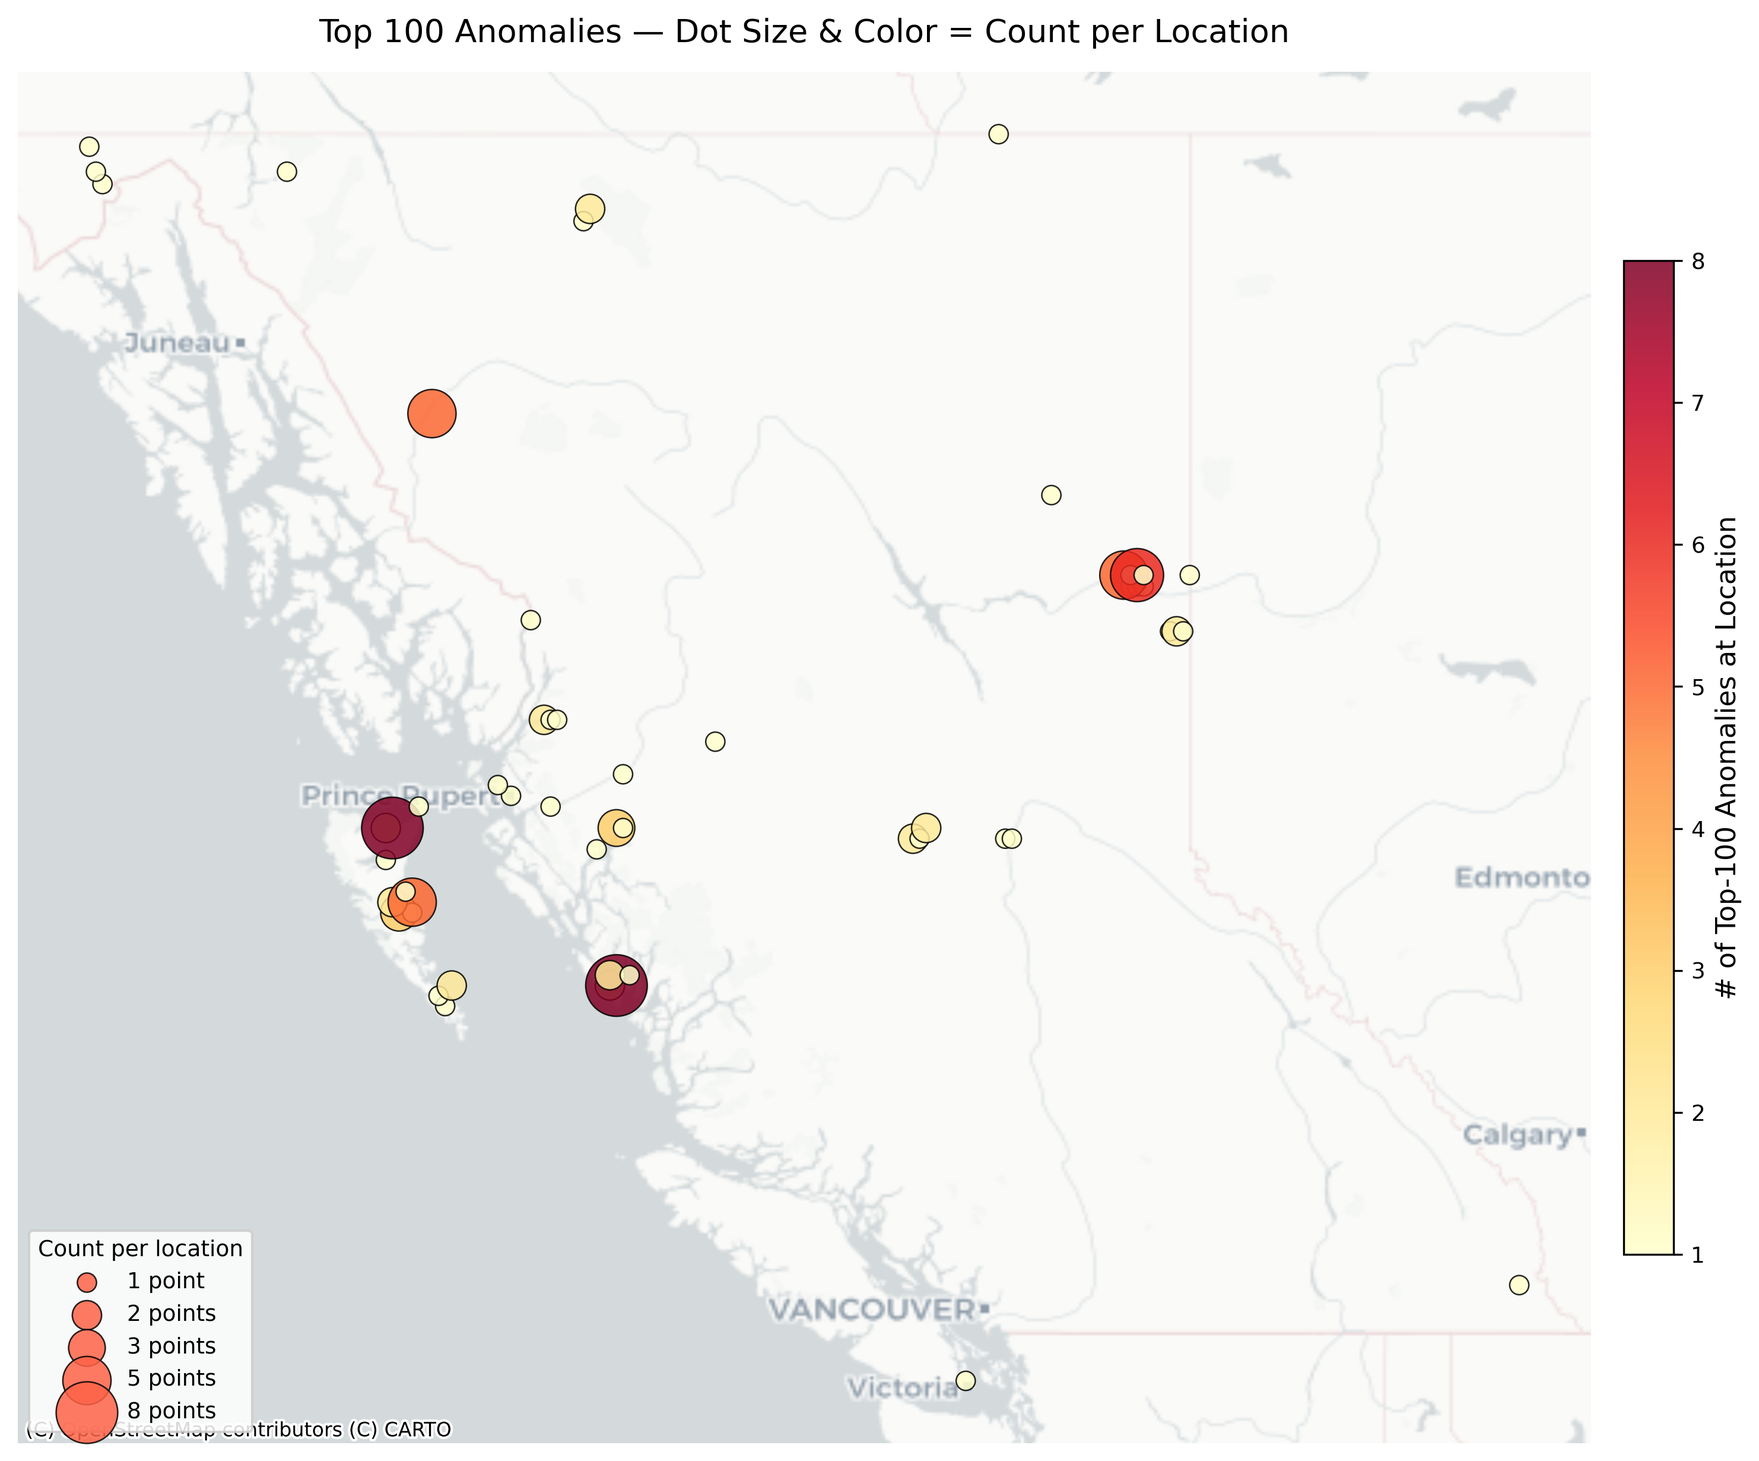
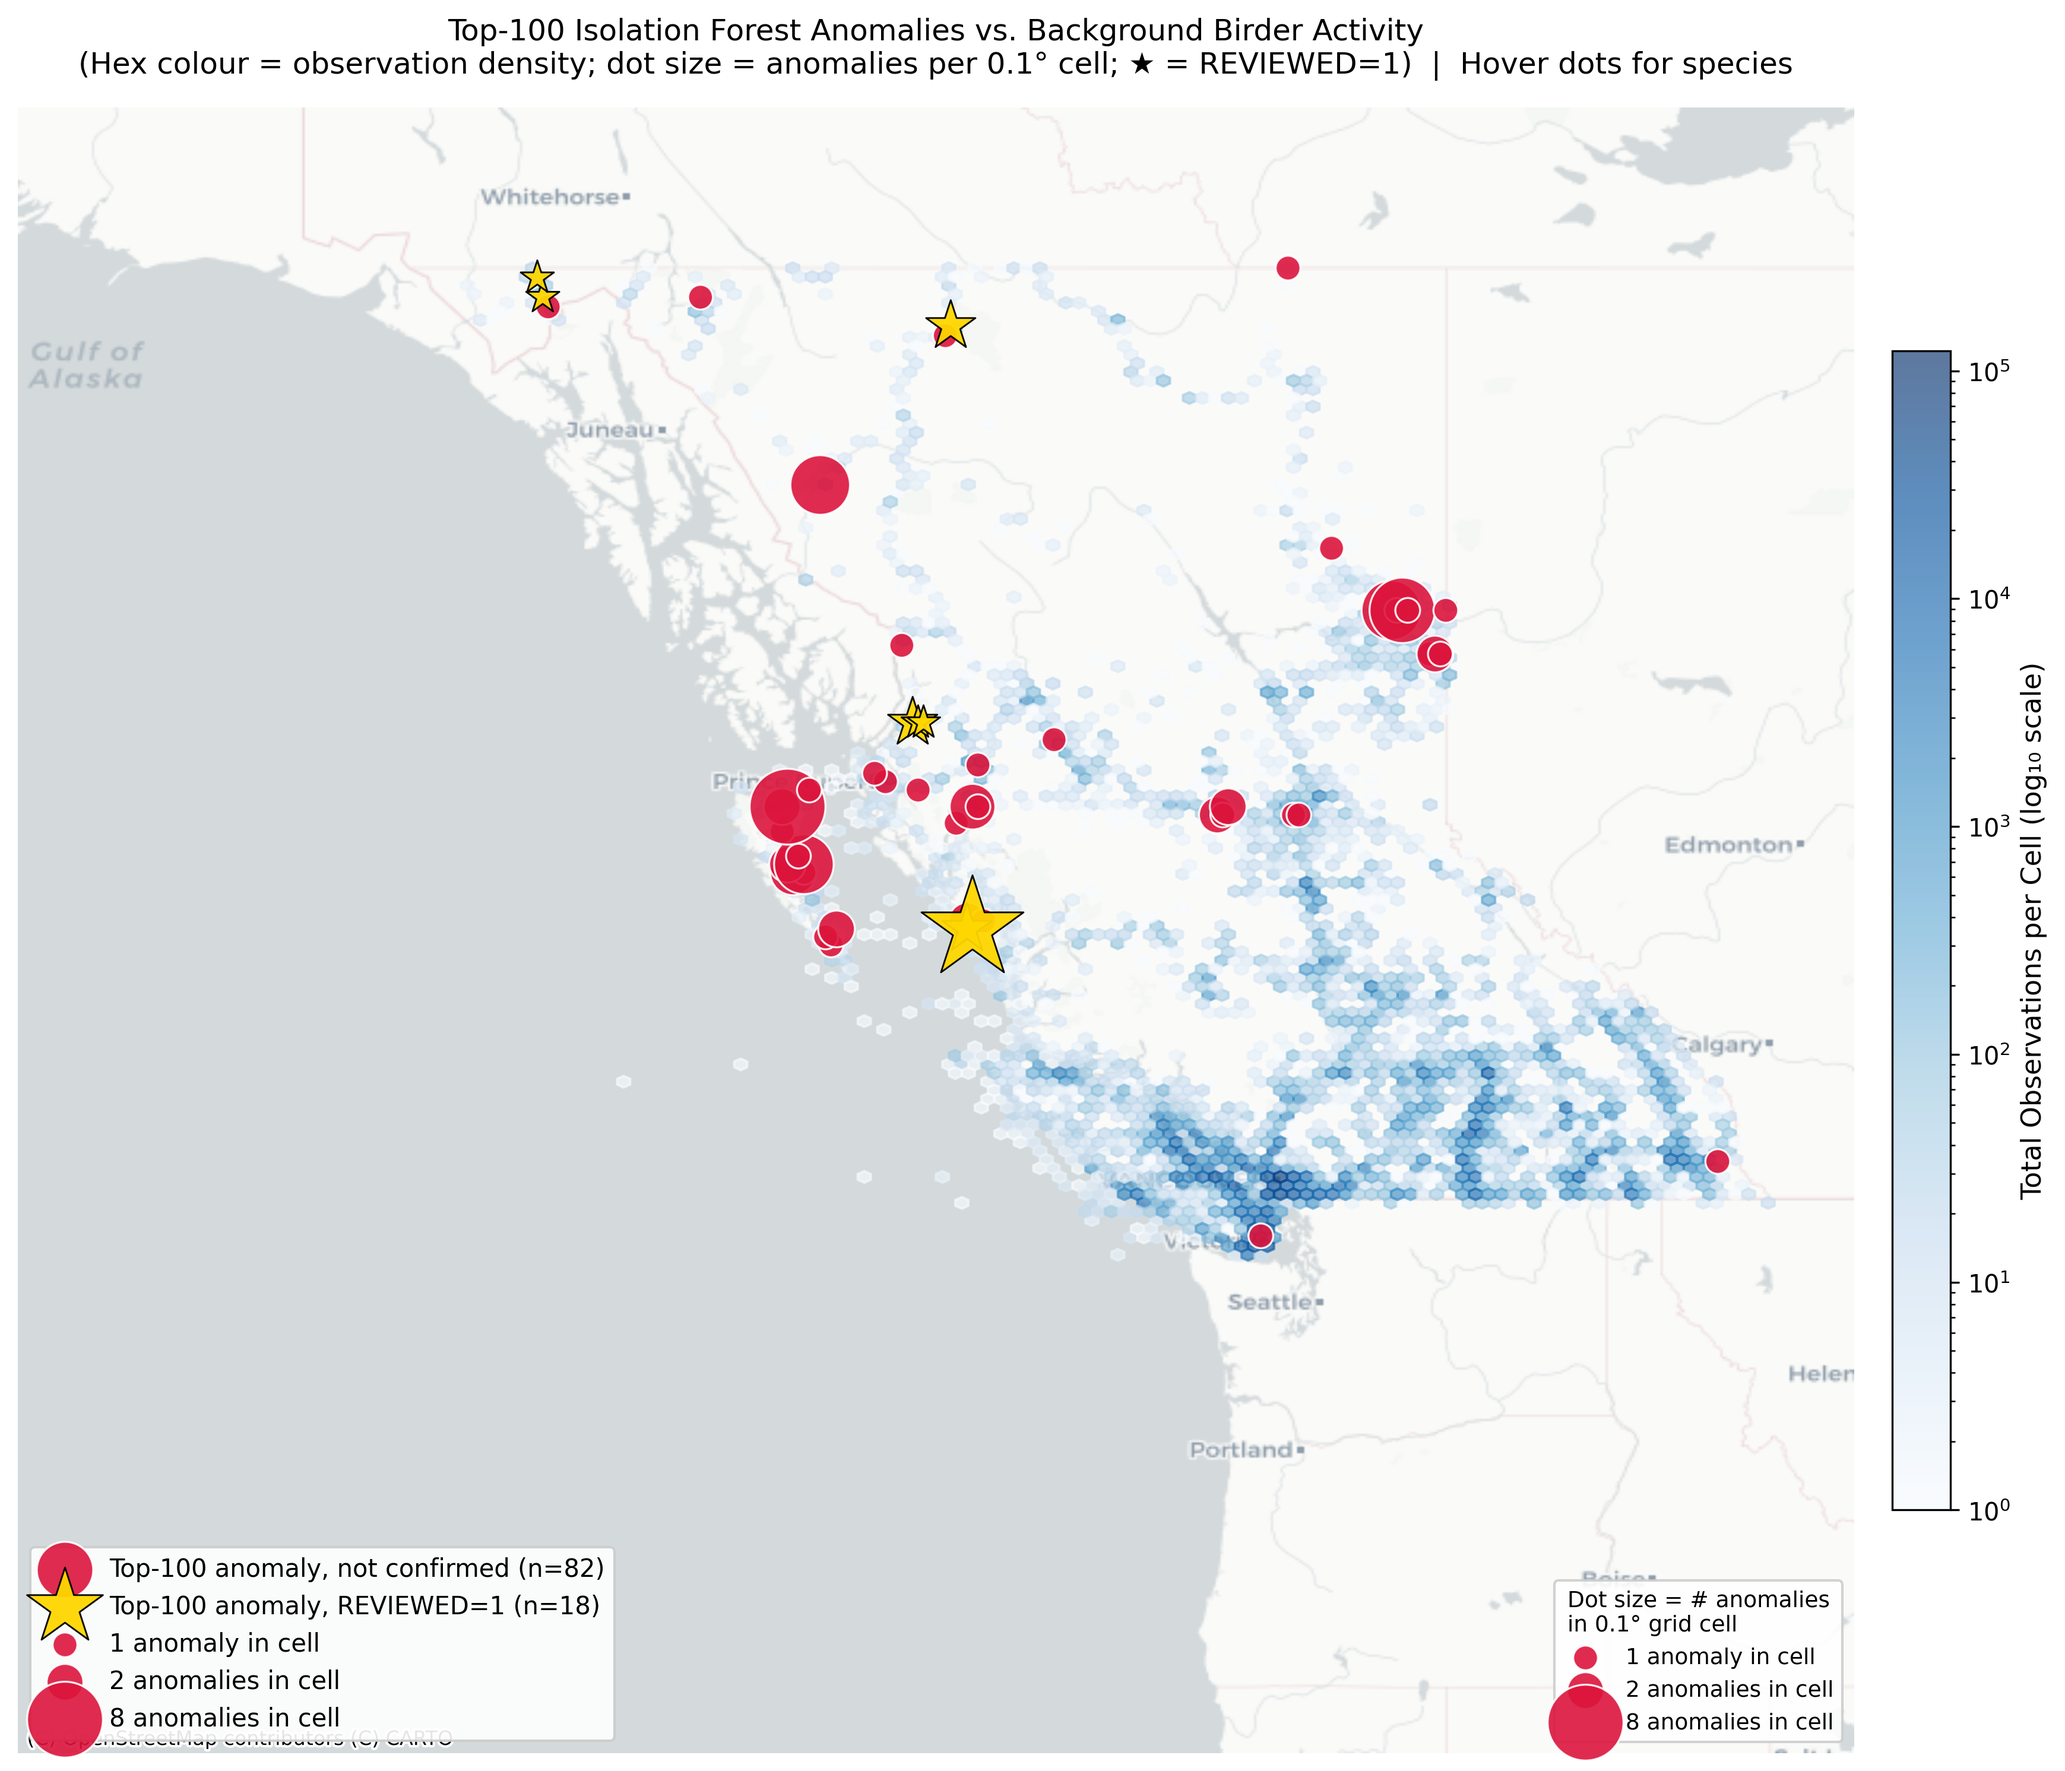
Add files via upload
Maps showing observation density by location created; overlays for model anomaly predictions & overlays for actual-expected anomaly by area

diff --git a/outputs/figures/MapOverlay.py b/outputs/figures/MapOverlay.py
@@ -1,81 +1,159 @@
 import pandas as pd
-import geopandas as gpd
 import matplotlib.pyplot as plt
-import matplotlib.patches as mpatches
 import contextily as cx
-import numpy as np
+from pyproj import Transformer
+import mplcursors
 
-# Load top anomalies from CSV (already pre-ranked; take top 100 by anomaly_rank)
+# ── Build TAXON CONCEPT ID → species name lookup from raw eBird file ──────────
+# Read only the 3 needed columns in chunks to avoid loading the 11 GB file fully.
+RAW_FILE = "ebd_CA-BC_201601_202601_smp_relFeb-2026.txt"
+CHUNK_SIZE = 200_000
+
+print("Building species name lookup from raw eBird file (chunked)...")
+taxon_lookup = {}   # { "avibase-XXXX": ("Common Name", "Scientific Name") }
+for chunk in pd.read_csv(
+    RAW_FILE,
+    sep="\t",
+    usecols=["TAXON CONCEPT ID", "COMMON NAME", "SCIENTIFIC NAME"],
+    dtype=str,
+    chunksize=CHUNK_SIZE,
+    low_memory=False,
+):
+    # Only keep rows whose taxon ID we haven't seen yet
+    new_rows = chunk[~chunk["TAXON CONCEPT ID"].isin(taxon_lookup)]
+    for _, row in new_rows.drop_duplicates("TAXON CONCEPT ID").iterrows():
+        taxon_lookup[row["TAXON CONCEPT ID"]] = (
+            row["COMMON NAME"], row["SCIENTIFIC NAME"]
+        )
+print(f"  {len(taxon_lookup):,} unique species found.")
+
+# ── Data Loading ──────────────────────────────────────────────────────────────
+print("Loading full observation dataset for density background...")
+full_df = pd.read_csv("anomaly_scores 2.csv", usecols=["LATITUDE", "LONGITUDE"])
+full_df = full_df.dropna(subset=["LATITUDE", "LONGITUDE"])
+print(f"  {len(full_df):,} total observations loaded.")
+
 top_100_df = pd.read_csv("top_anomalies.csv").nsmallest(100, "anomaly_rank")
 
-# 1. Round coordinates to ~1 km grid to detect overlapping points
-#    (~0.01 degrees ≈ 1 km at mid-latitudes; adjust finer/coarser as needed)
+# Attach species names
+top_100_df["common_name"]     = top_100_df["TAXON CONCEPT ID"].map(lambda t: taxon_lookup.get(t, ("Unknown", ""))[0])
+top_100_df["scientific_name"] = top_100_df["TAXON CONCEPT ID"].map(lambda t: taxon_lookup.get(t, ("", "Unknown"))[1])
+
+# ── Spatial binning (~10 km grid) ─────────────────────────────────────────────
 GRID_DEG = 0.1
 top_100_df["lat_bin"] = (top_100_df["LATITUDE"] / GRID_DEG).round() * GRID_DEG
 top_100_df["lon_bin"] = (top_100_df["LONGITUDE"] / GRID_DEG).round() * GRID_DEG
 
-# 2. Count how many points fall in each bin
+def summarise_bin(g):
+    species_list = ", ".join(sorted(g["common_name"].unique()))
+    return pd.Series({
+        "num_anomalies":  len(g),
+        "any_confirmed":  int(g["REVIEWED"].max()),
+        "species_names":  species_list,
+        "best_rank":      int(g["anomaly_rank"].min()),
+    })
+
 binned = (
     top_100_df.groupby(["lat_bin", "lon_bin"])
-    .agg(count=("anomaly_rank", "size"), best_rank=("anomaly_rank", "min"))
+    .apply(summarise_bin, include_groups=False)
     .reset_index()
 )
 
-# 3. Convert to GeoDataFrame
-gdf = gpd.GeoDataFrame(
-    binned,
-    geometry=gpd.points_from_xy(binned["lon_bin"], binned["lat_bin"]),
-    crs="EPSG:4326",
+# ── Coordinate Transform ───────────────────────────────────────────────────────
+transformer = Transformer.from_crs("EPSG:4326", "EPSG:3857", always_xy=True)
+
+full_x, full_y = transformer.transform(
+    full_df["LONGITUDE"].values, full_df["LATITUDE"].values
 )
-gdf = gdf.to_crs(epsg=3857)
+bin_x, bin_y = transformer.transform(
+    binned["lon_bin"].values, binned["lat_bin"].values
+)
+binned = binned.assign(x=bin_x, y=bin_y)
 
-# 4. Scale marker size by count (base size + extra per duplicate)
-BASE_SIZE = 60
-SIZE_SCALE = 80   # extra area per additional point in the bin
-gdf["markersize"] = BASE_SIZE + (gdf["count"] - 1) * SIZE_SCALE
+BASE_SIZE  = 100
+SIZE_SCALE = 120
+binned["markersize"] = BASE_SIZE + (binned["num_anomalies"] - 1) * SIZE_SCALE
 
-# 5. Color by count using a sequential colormap
-fig, ax = plt.subplots(figsize=(12, 10))
+confirmed   = binned[binned["any_confirmed"] == 1]
+unconfirmed = binned[binned["any_confirmed"] != 1]
 
-scatter = ax.scatter(
-    gdf.geometry.x,
-    gdf.geometry.y,
-    s=gdf["markersize"],
-    c=gdf["count"],
-    cmap="YlOrRd",
-    edgecolor="black",
-    linewidth=0.6,
-    alpha=0.85,
-    zorder=3,
+# ── Plot ──────────────────────────────────────────────────────────────────────
+fig, ax = plt.subplots(figsize=(14, 12))
+
+# 1. Background density heatmap
+hb = ax.hexbin(
+    full_x, full_y,
+    gridsize=100, cmap="Blues", bins="log",
+    alpha=0.65, mincnt=1, zorder=1
+)
+cbar = plt.colorbar(hb, ax=ax, fraction=0.03, pad=0.02)
+cbar.set_label("Total Observations per Cell (log₁₀ scale)", fontsize=11)
+
+# 2. Basemap
+cx.add_basemap(ax, source=cx.providers.CartoDB.Positron, reset_extent=False, zorder=0)
+
+# 3. Red circles (unconfirmed bins)
+sc_unc = ax.scatter(
+    unconfirmed["x"], unconfirmed["y"],
+    s=unconfirmed["markersize"], marker="o",
+    color="crimson", edgecolor="white",
+    linewidth=0.8, alpha=0.9, zorder=3,
+    label=f"Top-100 anomaly, not confirmed (n={int(unconfirmed['num_anomalies'].sum())})"
 )
 
-# 6. Add colorbar showing point count per location
-cbar = plt.colorbar(scatter, ax=ax, fraction=0.03, pad=0.02)
-cbar.set_label("# of Top-100 Anomalies at Location", fontsize=11)
-cbar.ax.tick_params(labelsize=9)
+# 4. Gold stars (confirmed bins)
+sc_con = ax.scatter(
+    confirmed["x"], confirmed["y"],
+    s=confirmed["markersize"] * 2.0, marker="*",
+    color="gold", edgecolor="black",
+    linewidth=0.7, alpha=0.95, zorder=4,
+    label=f"Top-100 anomaly, REVIEWED=1 (n={int(confirmed['num_anomalies'].sum())})"
+)
 
-# 7. Add a size legend so readers understand what circle area means
-unique_counts = sorted(gdf["count"].unique())
-legend_counts = [c for c in [1, 2, 3, 5] if c <= max(unique_counts)]
-if max(unique_counts) not in legend_counts:
-    legend_counts.append(max(unique_counts))
+# ── Interactive hover tooltips ─────────────────────────────────────────────────
+def make_tooltip(row):
+    lines = [
+        f"Species: {row['species_names']}",
+        f"Anomalies in cell: {int(row['num_anomalies'])}",
+        f"Best rank: #{int(row['best_rank'])}",
+        f"Confirmed (REVIEWED=1): {'Yes' if row['any_confirmed'] else 'No'}",
+    ]
+    return "\n".join(lines)
 
-legend_handles = [
+# Attach hover to both scatter artists
+for sc, subset in [(sc_unc, unconfirmed), (sc_con, confirmed)]:
+    rows = subset.reset_index(drop=True)
+    cursor = mplcursors.cursor(sc, hover=True)
+
+    @cursor.connect("add")
+    def on_add(sel, _rows=rows):
+        sel.annotation.set_text(make_tooltip(_rows.iloc[sel.index]))
+        sel.annotation.get_bbox_patch().set(fc="white", alpha=0.85)
+
+# ── Size legend ───────────────────────────────────────────────────────────────
+max_count = int(binned["num_anomalies"].max())
+legend_counts = sorted(set([1, 2] + ([max_count] if max_count > 2 else [])))
+size_handles = [
     plt.scatter([], [], s=BASE_SIZE + (c - 1) * SIZE_SCALE,
-                color="tomato", edgecolor="black", linewidth=0.6, alpha=0.85,
-                label=f"{c} point{'s' if c > 1 else ''}")
+                color="crimson", edgecolor="white", linewidth=0.8, alpha=0.9,
+                label=f"{c} anomal{'y' if c == 1 else 'ies'} in cell")
     for c in legend_counts
 ]
-ax.legend(handles=legend_handles, title="Count per location",
-          loc="lower left", fontsize=9, title_fontsize=9,
-          framealpha=0.85)
+size_legend = ax.legend(
+    handles=size_handles,
+    title="Dot size = # anomalies\nin 0.1° grid cell",
+    loc="lower right", fontsize=9, title_fontsize=9, framealpha=0.88
+)
+ax.add_artist(size_legend)
 
-# 8. Add basemap
-cx.add_basemap(ax, source=cx.providers.CartoDB.Positron)
-
+ax.legend(loc="lower left", fontsize=10, framealpha=0.9)
 ax.set_axis_off()
-ax.set_title("Top 100 Anomalies — Dot Size & Color = Count per Location",
-             fontsize=13, pad=12)
+ax.set_title(
+    "Top-100 Isolation Forest Anomalies vs. Background Birder Activity\n"
+    "(Hex colour = observation density; dot size = anomalies per 0.1° cell; ★ = REVIEWED=1)  |  Hover dots for species",
+    fontsize=12, pad=14
+)
 
 plt.savefig("Top_100_Anomalies_300dpi.png", dpi=300, bbox_inches="tight")
+print("Saved: Top_100_Anomalies_300dpi.png")
 plt.show()

diff --git a/outputs/figures/AnomalyRateMap.py b/outputs/figures/AnomalyRateMap.py
@@ -1,0 +1,125 @@
+import pandas as pd
+import numpy as np
+import matplotlib.pyplot as plt
+import matplotlib.ticker as mticker
+import contextily as cx
+from pyproj import Transformer
+import mplcursors
+
+# ── Constants ──────────────────────────────────────────────────────────────────
+TOTAL_OBS      = 1_093_203
+TOTAL_REVIEWED = 8_161
+EXPECTED_RATE  = TOTAL_REVIEWED / TOTAL_OBS   # 0.747%
+MIN_OBS_PER_BIN = 20
+CLIP_PP = 0.05   # colorbar clip at ±5 percentage points
+
+# ── Load full dataset (for deviation heatmap) ─────────────────────────────────
+print("Loading observation dataset...")
+full_df = pd.read_csv(
+    "anomaly_scores 2.csv",
+    usecols=["LATITUDE", "LONGITUDE", "REVIEWED"]
+)
+full_df = full_df.dropna(subset=["LATITUDE", "LONGITUDE"])
+print(f"  {len(full_df):,} observations | {TOTAL_REVIEWED:,} ground-truth anomalies ({EXPECTED_RATE*100:.3f}%)")
+full_df["deviation"] = (full_df["REVIEWED"] == 1).astype(float) - EXPECTED_RATE
+
+# ── Load top-100 model anomalies ──────────────────────────────────────────────
+top_100_df = pd.read_csv("top_anomalies.csv").nsmallest(100, "anomaly_rank")
+
+# ── Coordinate Transform ───────────────────────────────────────────────────────
+transformer = Transformer.from_crs("EPSG:4326", "EPSG:3857", always_xy=True)
+
+full_x, full_y = transformer.transform(
+    full_df["LONGITUDE"].values, full_df["LATITUDE"].values
+)
+top_x, top_y = transformer.transform(
+    top_100_df["LONGITUDE"].values, top_100_df["LATITUDE"].values
+)
+top_100_df = top_100_df.assign(x=top_x, y=top_y)
+
+confirmed   = top_100_df[top_100_df["REVIEWED"] == 1].reset_index(drop=True)
+unconfirmed = top_100_df[top_100_df["REVIEWED"] != 1].reset_index(drop=True)
+
+# ── Plot ──────────────────────────────────────────────────────────────────────
+fig, ax = plt.subplots(figsize=(14, 12))
+
+# 1. Basemap (bottom layer)
+# Draw a placeholder hexbin first to set axis extents, then draw real one after basemap
+ax.hexbin(full_x, full_y, gridsize=75, alpha=0, zorder=0)
+cx.add_basemap(ax, source=cx.providers.CartoDB.Positron, reset_extent=False, zorder=0)
+
+# 2. Diverging deviation heatmap (slightly transparent so basemap geography shows)
+hb = ax.hexbin(
+    full_x, full_y,
+    C=full_df["deviation"].values,
+    reduce_C_function=np.mean,
+    gridsize=75,
+    cmap="RdBu_r",
+    mincnt=MIN_OBS_PER_BIN,
+    vmin=-CLIP_PP,
+    vmax=CLIP_PP,
+    alpha=0.70,
+    zorder=1
+)
+
+# Colorbar
+cbar = plt.colorbar(hb, ax=ax, fraction=0.03, pad=0.02, extend="both")
+cbar.set_label("Anomaly rate − expected rate (percentage points)", fontsize=11)
+cbar.ax.yaxis.set_major_formatter(
+    mticker.FuncFormatter(lambda v, _: f"{v*100:+.1f}pp")
+)
+cbar.ax.axhline(0, color="black", linewidth=1.2, linestyle="--")
+
+# 3. Unconfirmed top-100: small dark-green dots
+#    Dark green sits off the red/blue hexbin axis, visible on the white basemap.
+sc_unc = ax.scatter(
+    unconfirmed["x"], unconfirmed["y"],
+    s=22, marker="o",
+    color="#2ECC71",          # medium-bright green
+    edgecolors="none",
+    alpha=0.85,
+    zorder=3,
+    label=f"Model top-100, not confirmed (n={len(unconfirmed)})"
+)
+
+# 4. Confirmed (REVIEWED=1): small vivid-orange dots — same size, different colour
+sc_con = ax.scatter(
+    confirmed["x"], confirmed["y"],
+    s=30, marker="o",
+    color="#FFD400",          # golden amber
+    edgecolors="none",
+    alpha=0.90,
+    zorder=4,
+    label=f"Model top-100, REVIEWED=1 ground truth (n={len(confirmed)})"
+)
+
+# ── Interactive hover tooltips ─────────────────────────────────────────────────
+for sc, subset in [(sc_unc, unconfirmed), (sc_con, confirmed)]:
+    cursor = mplcursors.cursor(sc, hover=True)
+
+    @cursor.connect("add")
+    def on_add(sel, _df=subset):
+        row = _df.iloc[sel.index]
+        sel.annotation.set_text(
+            f"Rank:          #{int(row['anomaly_rank'])}\n"
+            f"Anomaly score: {row['anomaly_score']:.4f}\n"
+            f"Taxon ID:      {row['TAXON CONCEPT ID']}\n"
+            f"Confirmed:     {'Yes ★' if row['REVIEWED'] == 1 else 'No'}"
+        )
+        sel.annotation.get_bbox_patch().set(fc="white", alpha=0.88)
+
+# ── Legend & labels ───────────────────────────────────────────────────────────
+ax.legend(loc="lower left", fontsize=10, framealpha=0.9)
+ax.set_axis_off()
+ax.set_title(
+    f"Ground-Truth Anomaly Rate Deviation vs. Model Top-100 Predictions\n"
+    f"Expected baseline: {EXPECTED_RATE*100:.3f}% | "
+    f"Red = anomaly hot spot | Blue = below expected | "
+    f"● green = model top-100 (not confirmed) | ● orange = confirmed (REVIEWED=1)  |  Hover for details",
+    fontsize=11, pad=14
+)
+
+# Save first at 150 dpi (basemap resampling at 300 dpi over 14"x12" is very slow)
+plt.savefig("Anomaly_Rate_Deviation_Map.png", dpi=150, bbox_inches="tight")
+print("Saved: Anomaly_Rate_Deviation_Map.png")
+plt.show()
